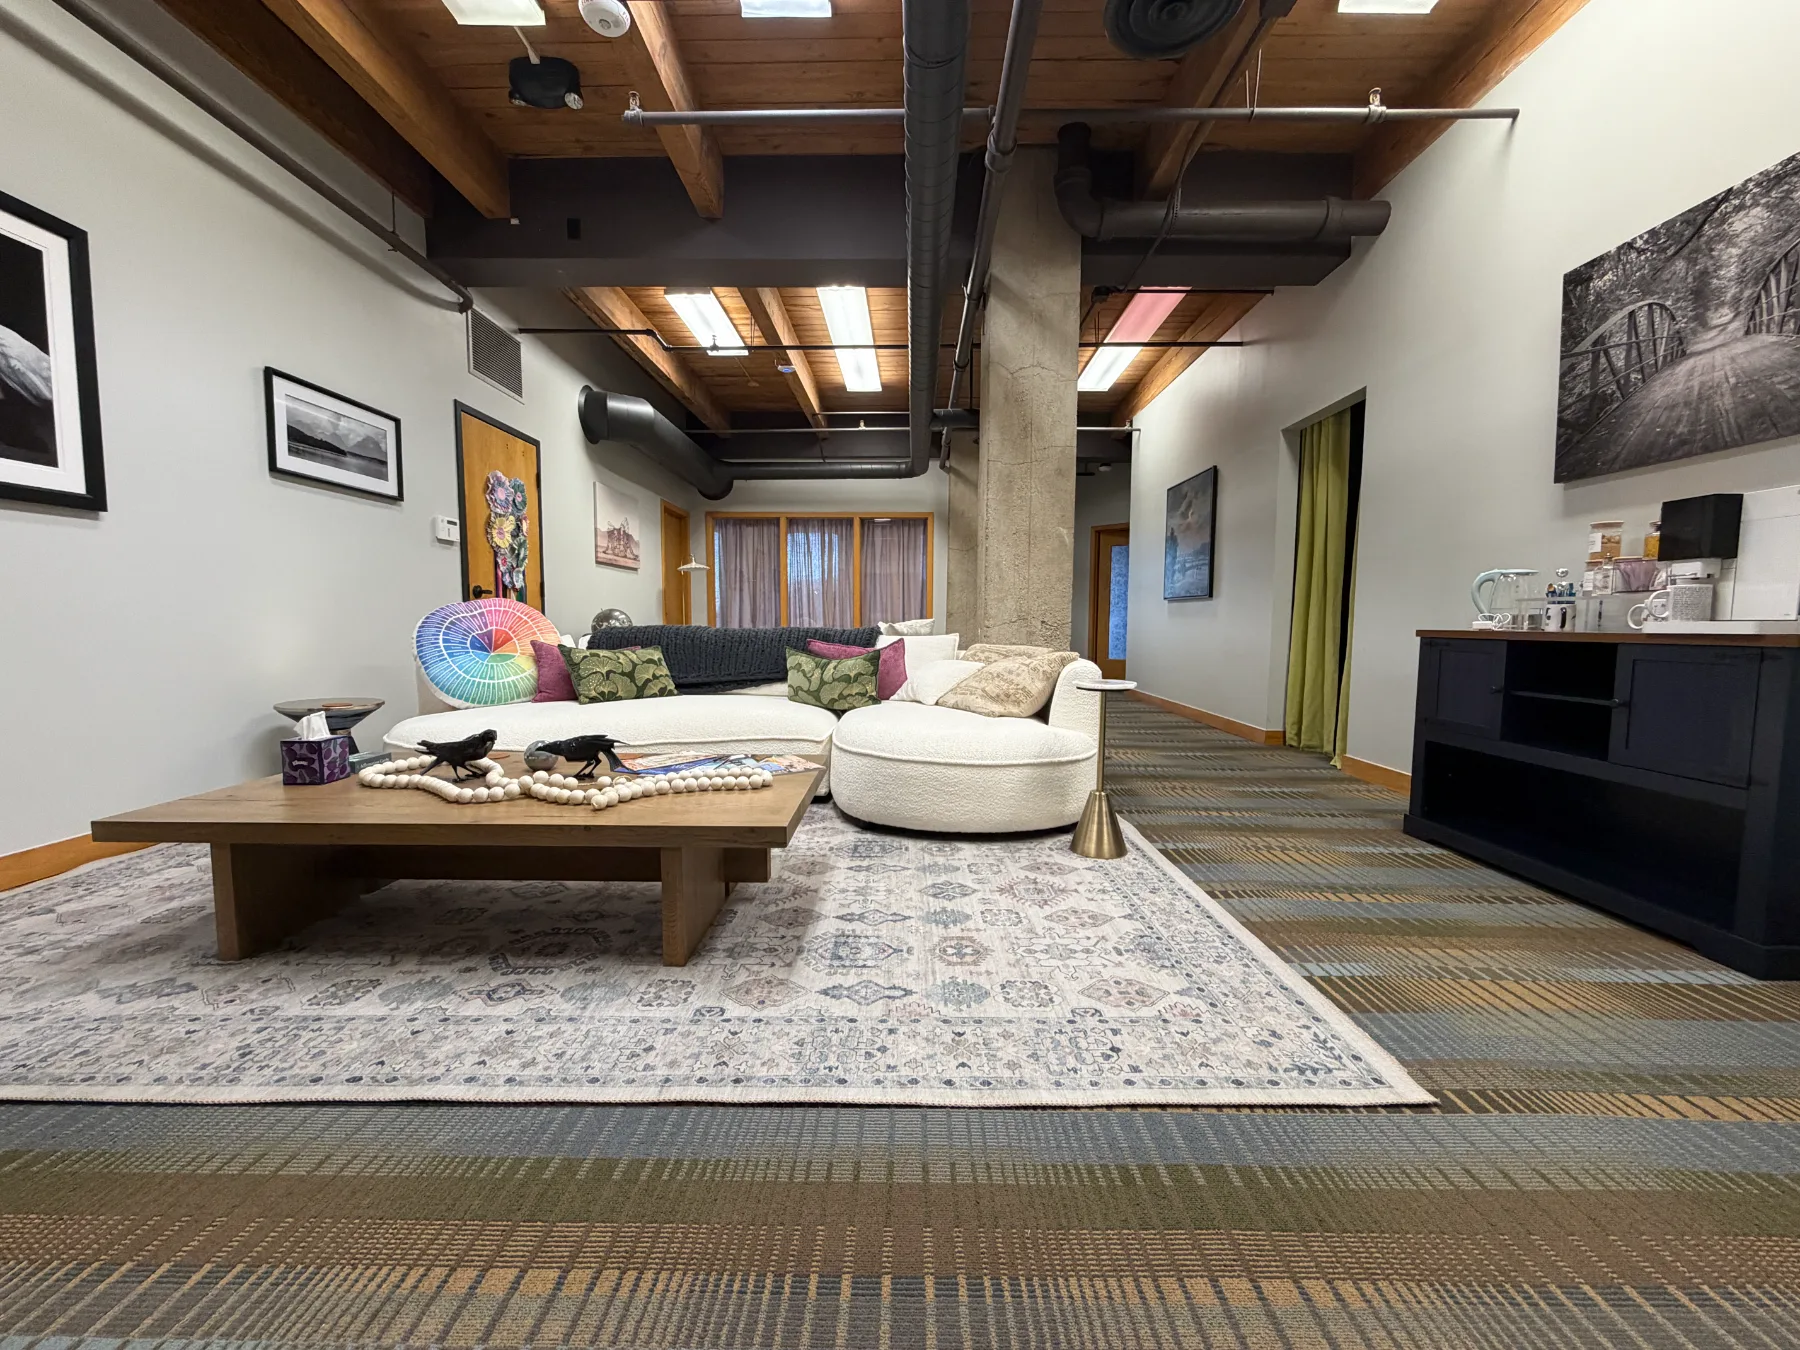
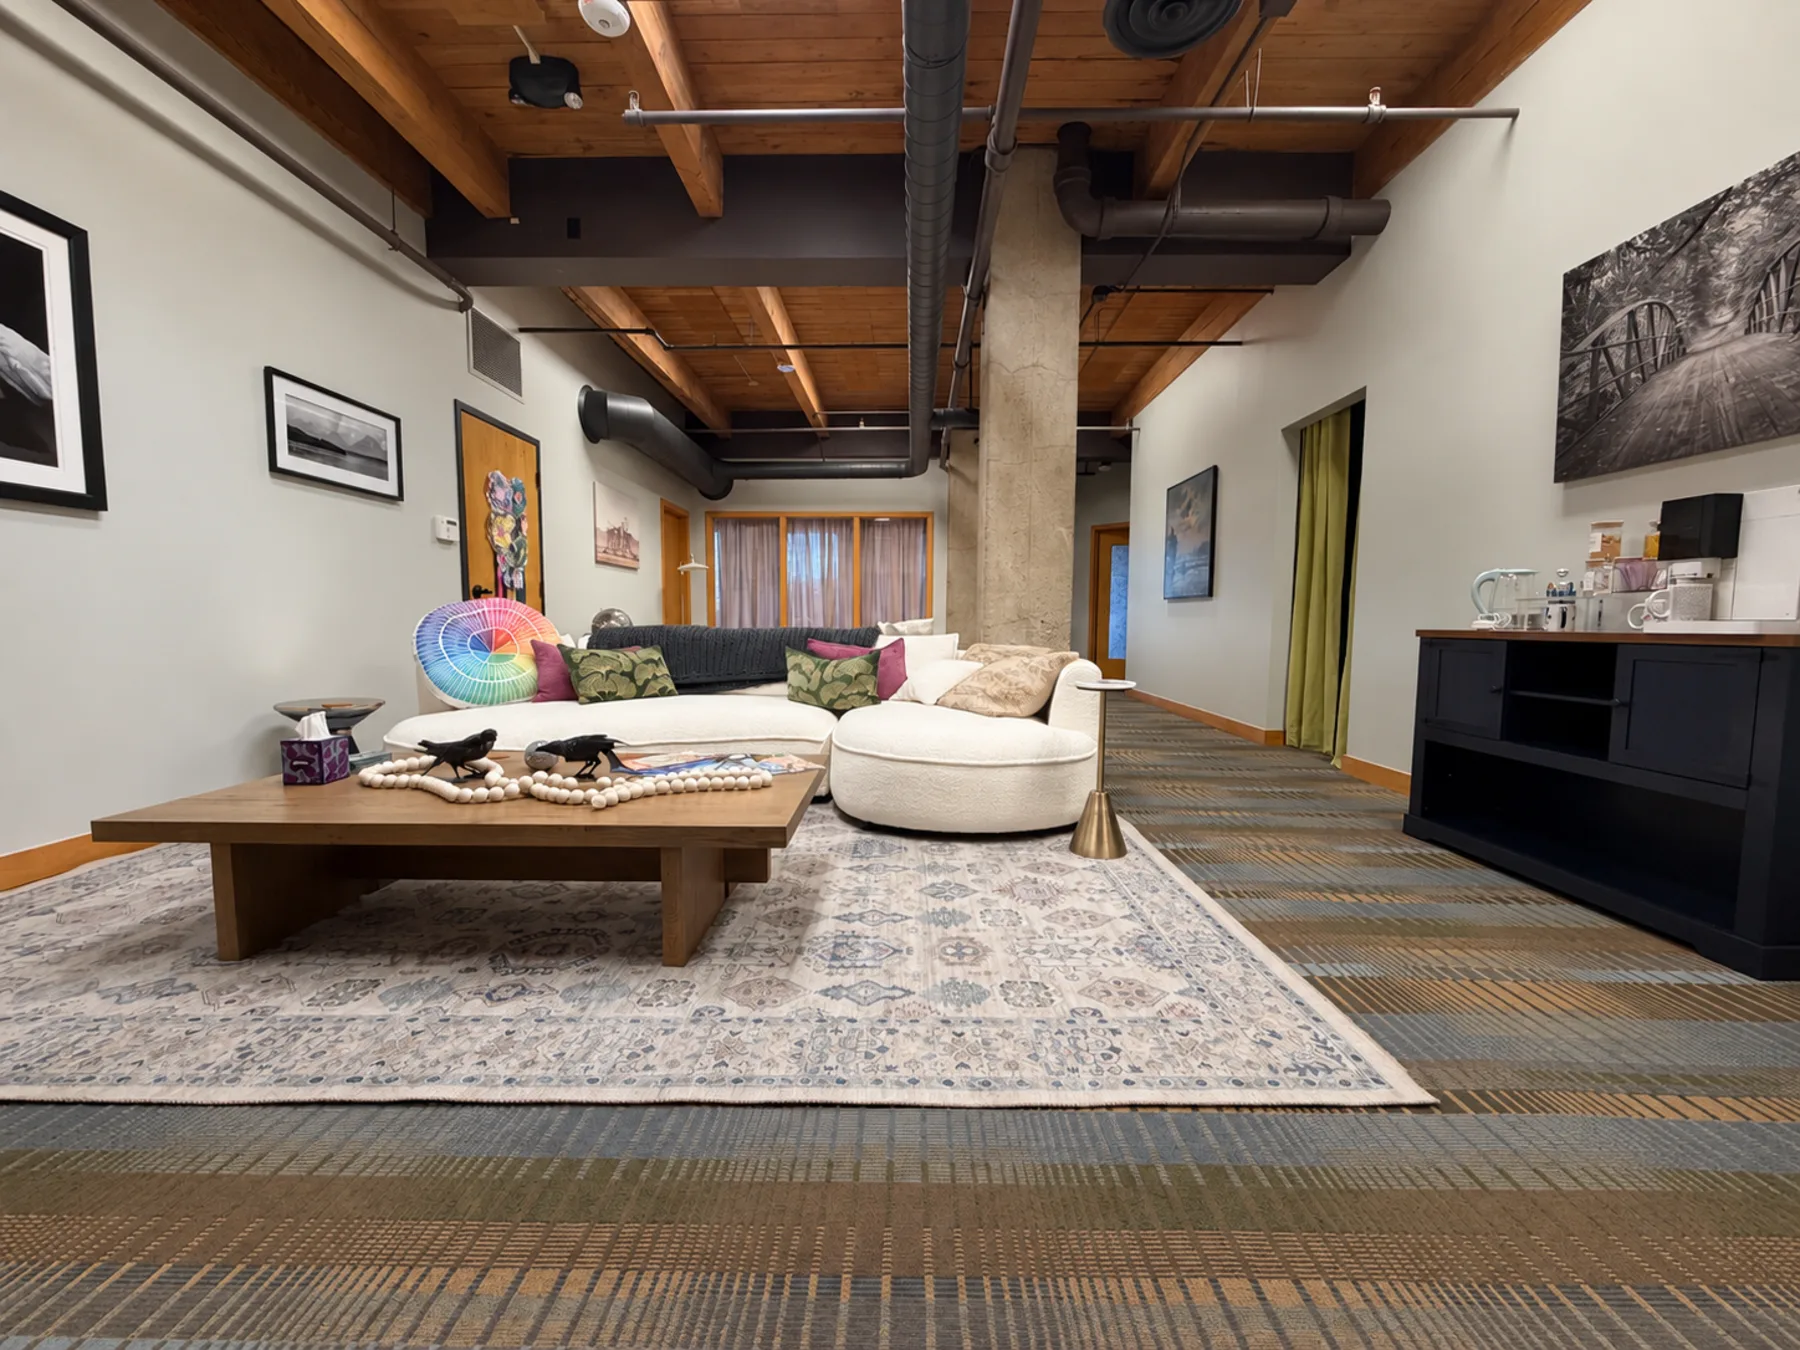
Add files via upload

diff --git a/team.html b/team.html
@@ -7,12 +7,12 @@
 <link rel="icon" type="image/png" sizes="64x64" href="assets/favicon-64.png">
 <link rel="apple-touch-icon" href="assets/favicon-180.png">
 <title>Our team | evoke psychotherapy pllc</title>
-<meta name="description" content="Meet the clinicians and staff at evoke psychotherapy: Lori Guidone, Victoria Orbe, Tiffany Scurto, James Triumph, and Kelsey Harness, plus the people who keep the practice running.">
+<meta name="description" content="Meet the clinicians and staff at evoke psychotherapy: Lori Guidone, Kelsey Harness, Victoria Orbe, Tiffany Scurto, and James Triumph, plus the people who keep the practice running.">
 <link rel="canonical" href="https://www.evokepsychotherapy.com/team">
 <meta property="og:type" content="website">
 <meta property="og:site_name" content="evoke psychotherapy pllc">
 <meta property="og:title" content="Our team | evoke psychotherapy pllc">
-<meta property="og:description" content="Meet the clinicians and staff at evoke psychotherapy: Lori Guidone, Victoria Orbe, Tiffany Scurto, James Triumph, and Kelsey Harness, plus the people who keep the practice running.">
+<meta property="og:description" content="Meet the clinicians and staff at evoke psychotherapy: Lori Guidone, Kelsey Harness, Victoria Orbe, Tiffany Scurto, and James Triumph, plus the people who keep the practice running.">
 <meta property="og:url" content="https://www.evokepsychotherapy.com/team">
 <meta property="og:image" content="https://www.evokepsychotherapy.com/assets/og-evoke.jpg">
 <meta property="og:image:width" content="1200">
@@ -21,7 +21,7 @@
 <meta property="og:locale" content="en_US">
 <meta name="twitter:card" content="summary_large_image">
 <meta name="twitter:title" content="Our team | evoke psychotherapy pllc">
-<meta name="twitter:description" content="Meet the clinicians and staff at evoke psychotherapy: Lori Guidone, Victoria Orbe, Tiffany Scurto, James Triumph, and Kelsey Harness, plus the people who keep the practice running.">
+<meta name="twitter:description" content="Meet the clinicians and staff at evoke psychotherapy: Lori Guidone, Kelsey Harness, Victoria Orbe, Tiffany Scurto, and James Triumph, plus the people who keep the practice running.">
 <meta name="twitter:image" content="https://www.evokepsychotherapy.com/assets/og-evoke.jpg">
 <meta name="theme-color" content="#f7f5f0">
 <link rel="stylesheet" href="_ds/modernist-d6ffb30b-7b06-4ec4-96dd-f34c1b12115a/styles.css">
@@ -46,6 +46,7 @@
       },
       "employee": [
         { "@id": "https://www.evokepsychotherapy.com/team#lori" },
+        { "@id": "https://www.evokepsychotherapy.com/team#kelsey" },
         { "@id": "https://www.evokepsychotherapy.com/team#victoria" },
         { "@id": "https://www.evokepsychotherapy.com/team#tiffany" },
         { "@id": "https://www.evokepsychotherapy.com/team#james" }

diff --git a/services.html b/services.html
@@ -7,12 +7,12 @@
 <link rel="icon" type="image/png" sizes="64x64" href="assets/favicon-64.png">
 <link rel="apple-touch-icon" href="assets/favicon-180.png">
 <title>Services | evoke psychotherapy pllc</title>
-<meta name="description" content="Individual therapy, couples therapy, and clinical supervision for therapists accruing hours, in Kalamazoo and by telehealth across Michigan.">
+<meta name="description" content="Individual therapy, couples therapy, and clinical supervision for counselors and social workers accruing hours, in Kalamazoo and by telehealth across Michigan.">
 <link rel="canonical" href="https://www.evokepsychotherapy.com/services">
 <meta property="og:type" content="website">
 <meta property="og:site_name" content="evoke psychotherapy pllc">
 <meta property="og:title" content="Services | evoke psychotherapy pllc">
-<meta property="og:description" content="Individual therapy, couples therapy, and clinical supervision for therapists accruing hours, in Kalamazoo and by telehealth across Michigan.">
+<meta property="og:description" content="Individual therapy, couples therapy, and clinical supervision for counselors and social workers accruing hours, in Kalamazoo and by telehealth across Michigan.">
 <meta property="og:url" content="https://www.evokepsychotherapy.com/services">
 <meta property="og:image" content="https://www.evokepsychotherapy.com/assets/og-evoke.jpg">
 <meta property="og:image:width" content="1200">
@@ -21,7 +21,7 @@
 <meta property="og:locale" content="en_US">
 <meta name="twitter:card" content="summary_large_image">
 <meta name="twitter:title" content="Services | evoke psychotherapy pllc">
-<meta name="twitter:description" content="Individual therapy, couples therapy, and clinical supervision for therapists accruing hours, in Kalamazoo and by telehealth across Michigan.">
+<meta name="twitter:description" content="Individual therapy, couples therapy, and clinical supervision for counselors and social workers accruing hours, in Kalamazoo and by telehealth across Michigan.">
 <meta name="twitter:image" content="https://www.evokepsychotherapy.com/assets/og-evoke.jpg">
 <meta name="theme-color" content="#f7f5f0">
 <link rel="stylesheet" href="_ds/modernist-d6ffb30b-7b06-4ec4-96dd-f34c1b12115a/styles.css">
